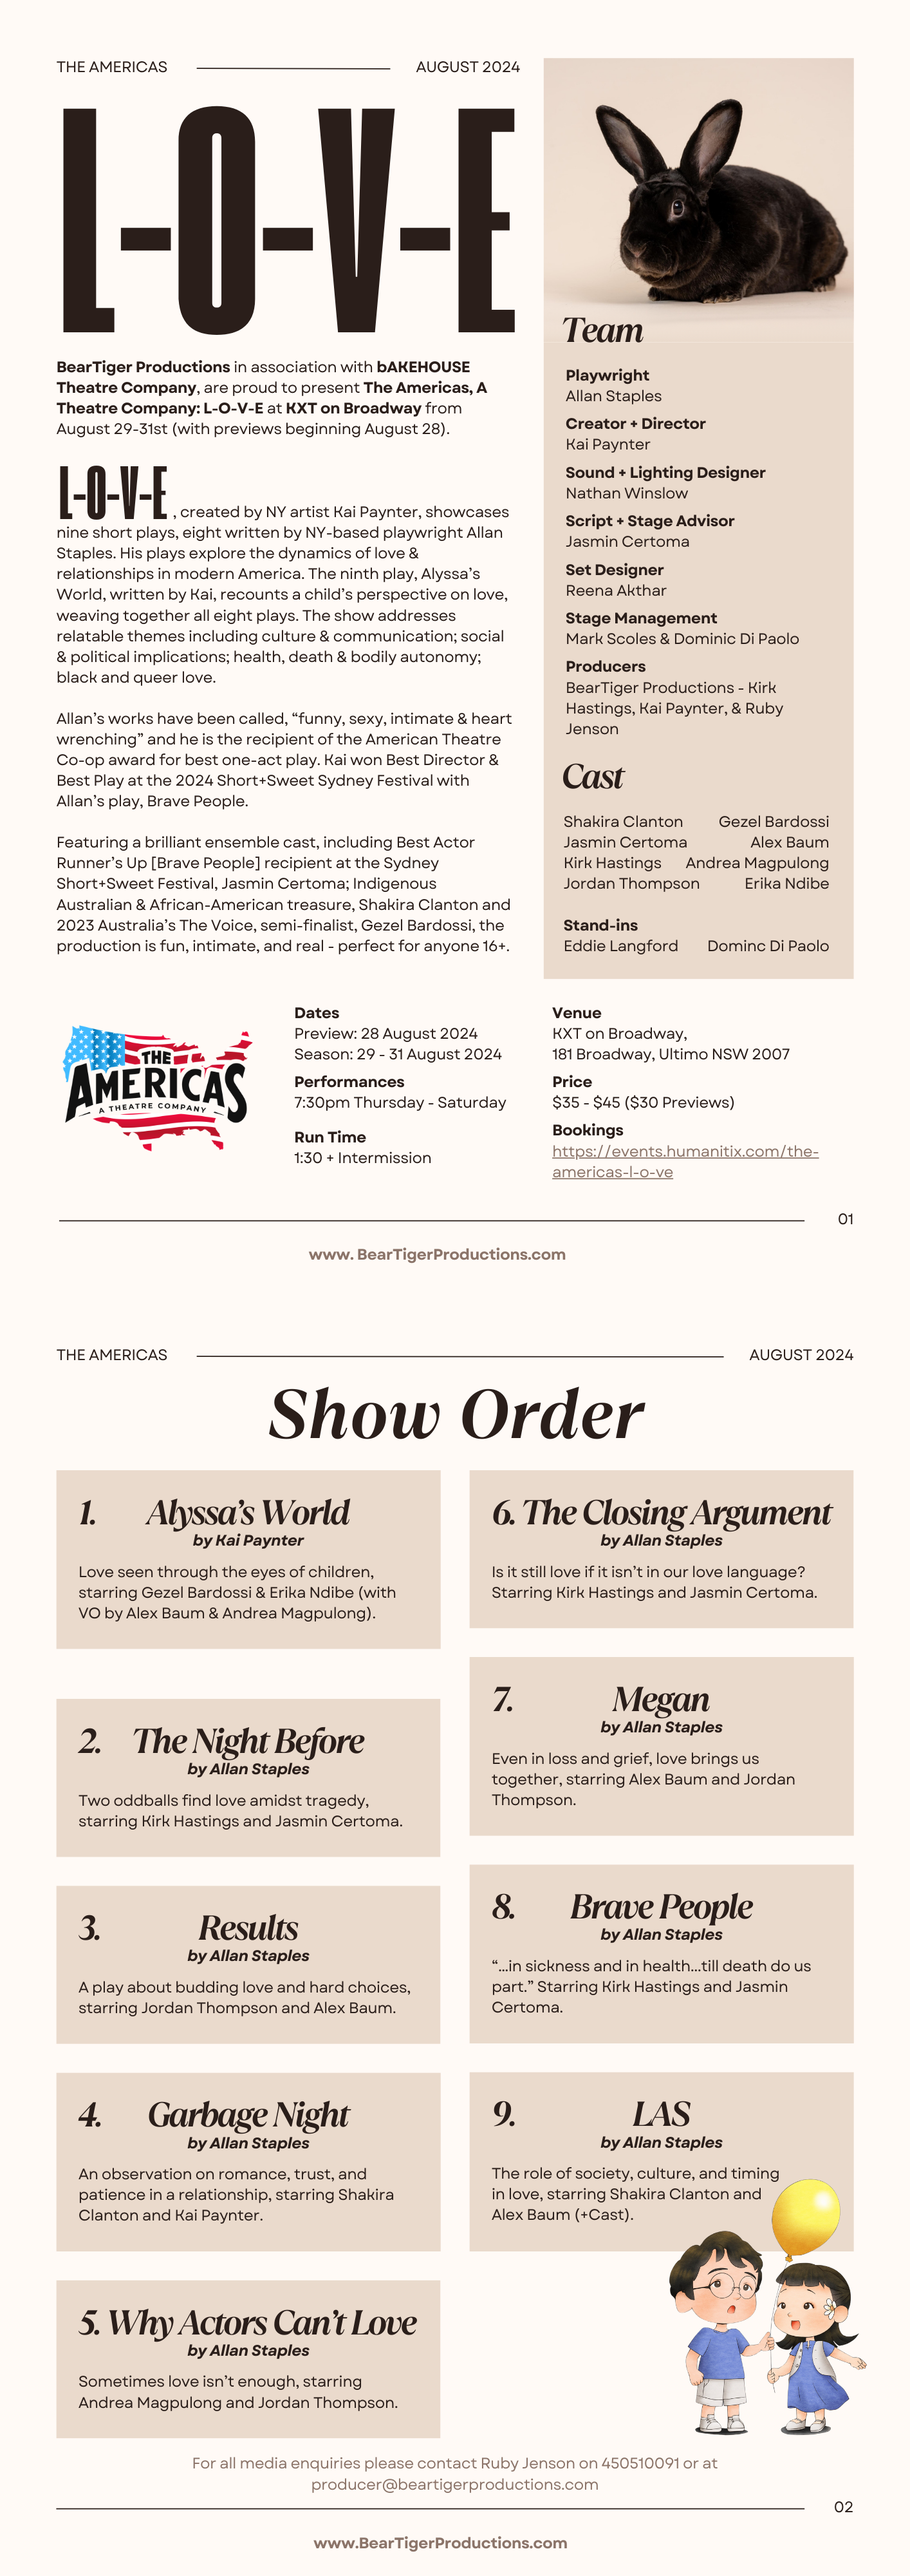
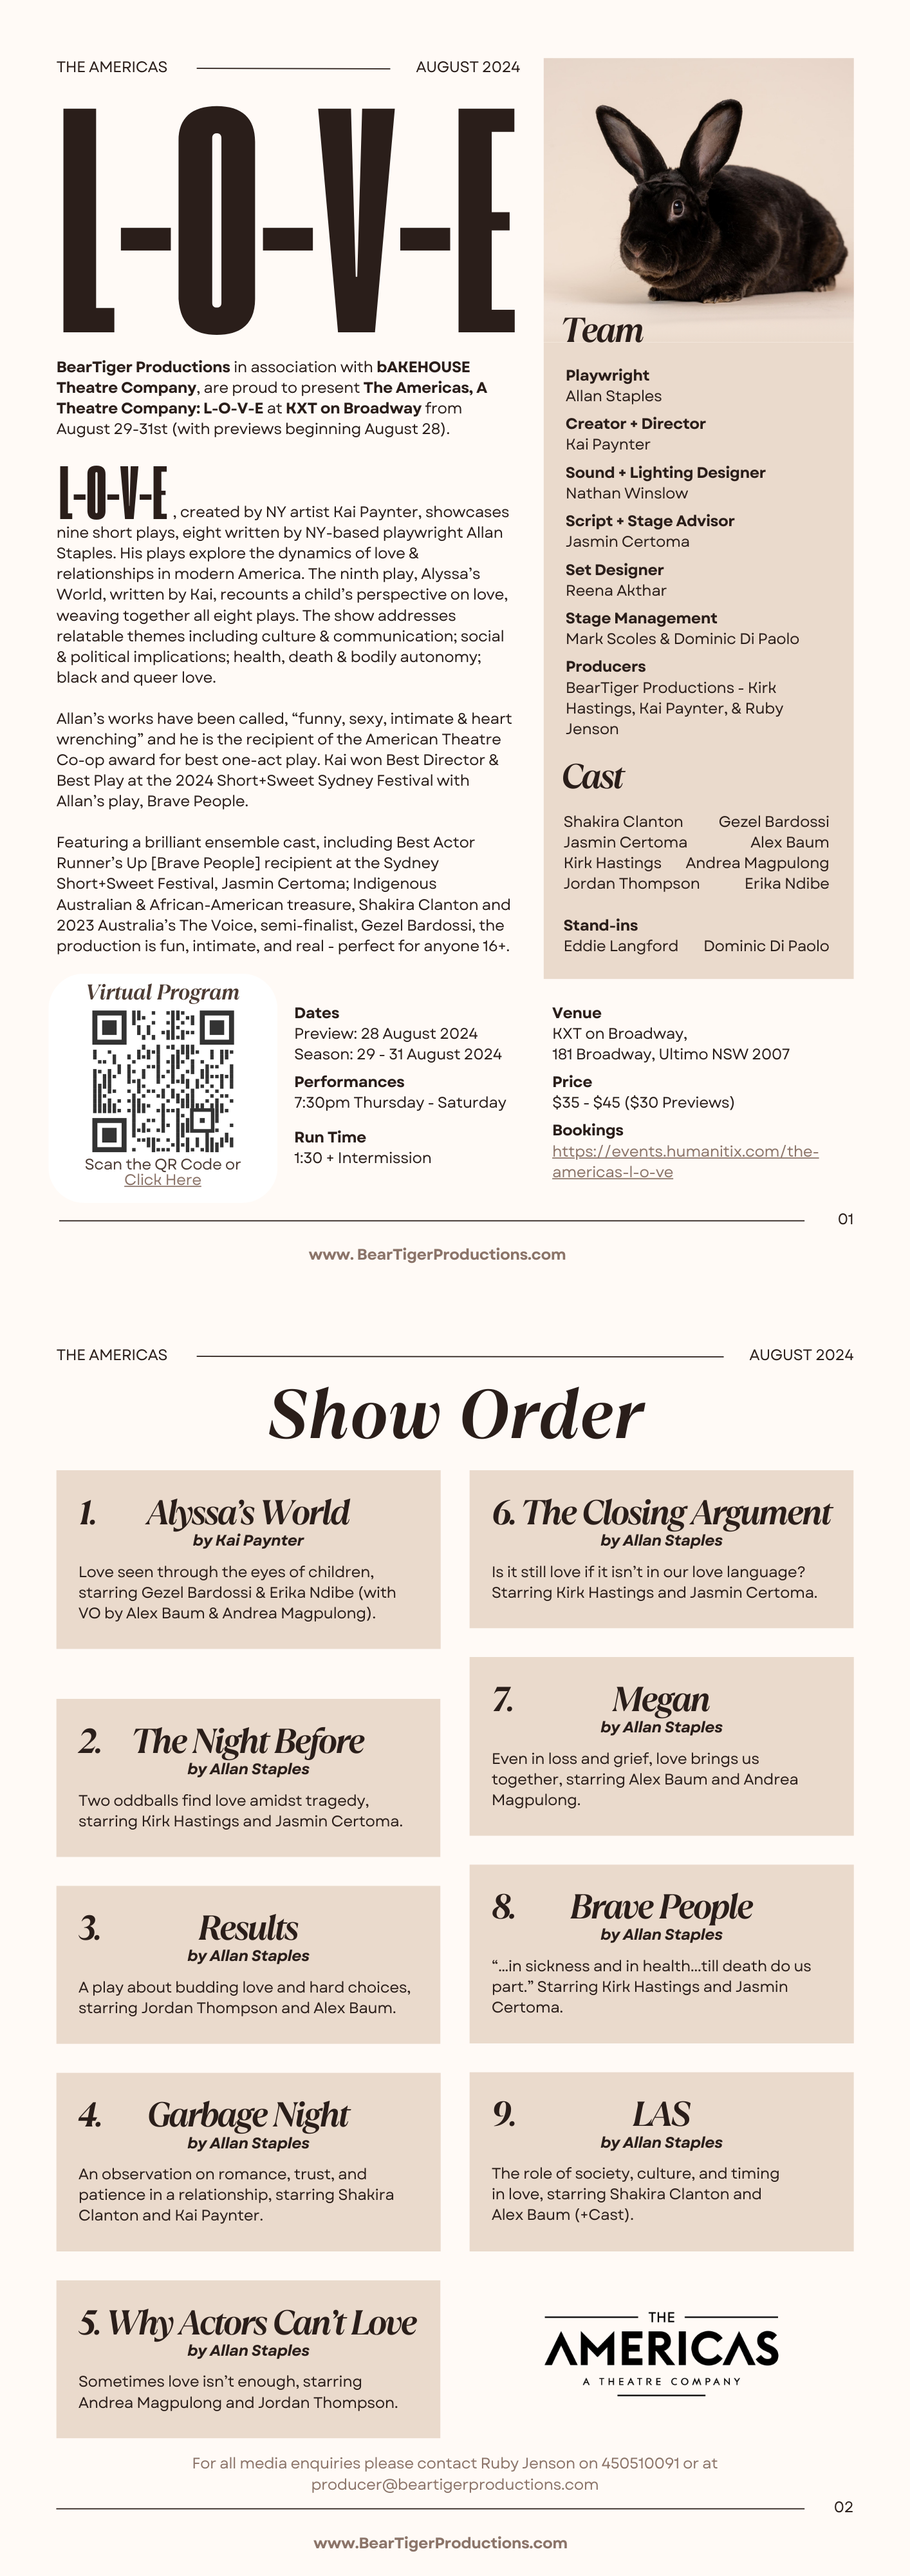
latest docs

Changed region(s): [[0.5912, 0.8438, 0.9335, 0.9688], [0.0622, 0.375, 0.2801, 0.4688]]

diff --git a/src/pages/upcomingshows.js b/src/pages/upcomingshows.js
@@ -15,15 +15,9 @@ const UpcomingShowsPage = () => (
           >	Click here for our virtual program
           </a>
         </p>
-        <p className='align-center'>
-          <a
-            href="/virtualprogram"
-          >	QR code for our virtual program
-          </a>
-        </p>
         <StaticImage
           src="../assets/images/L-O-V-E_Gala_Press_release.png"
-          alt="L-O-V-E Gala Press Release 1"
+          alt="L-O-V-E Gala Press Release"
           placeholder="blurred"
           objectFit="contain"
         />
